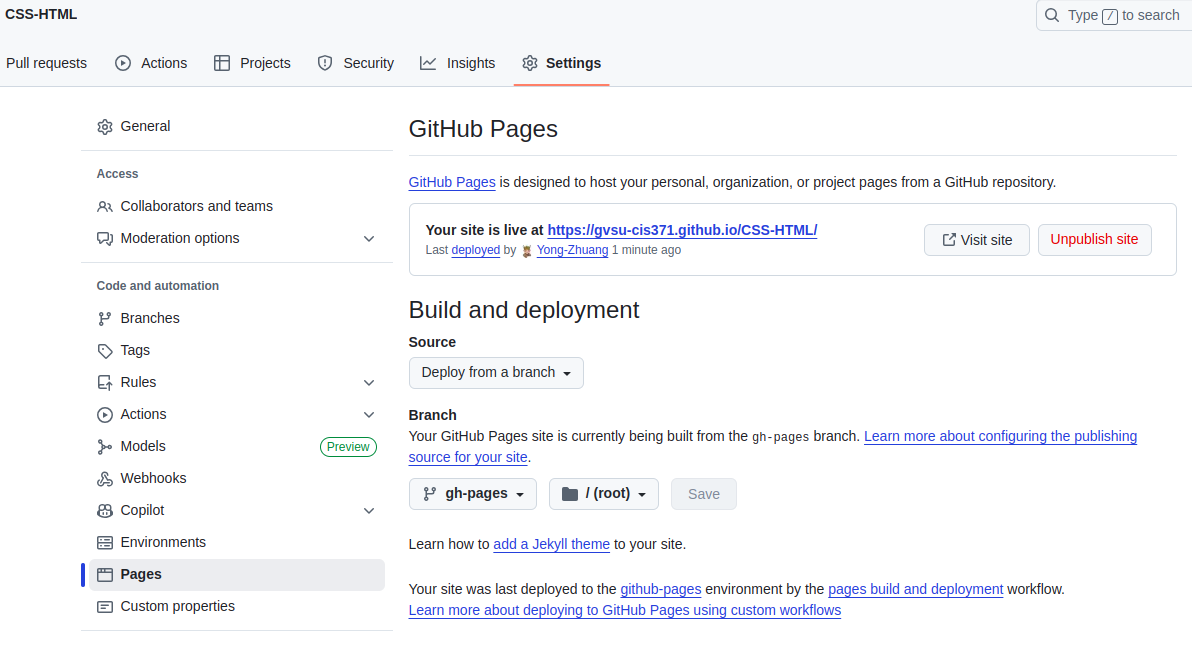
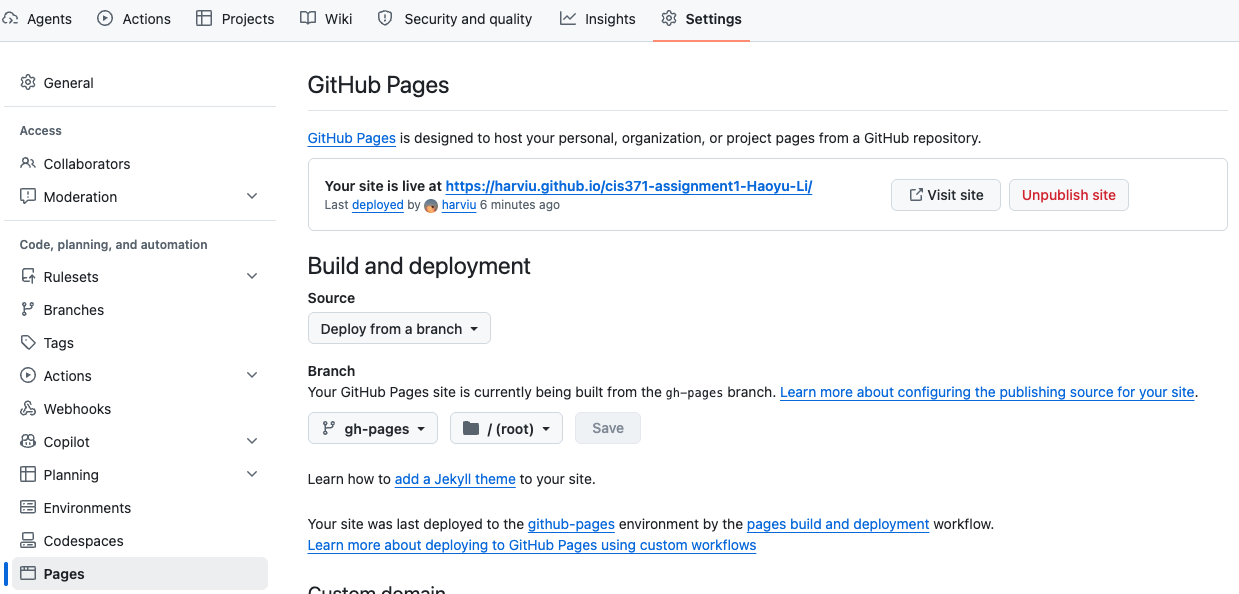
Revise assignment 1

diff --git a/assignments/css-html.md b/assignments/css-html.md
@@ -14,10 +14,10 @@ Build a static online store showcasing your proficiency in fundamental CSS and H
 - **IDE Setup:** Use [VS Code](https://code.visualstudio.com/) for editing and managing your code.
 - **Development Environment:**
 
-  1. **NodeJS Environment Setup**: Choose one of the following options to set up your NodeJS environment,
+  1. **Node.js Environment Setup:** Install Node.js 22.12 or later using one of the following options:
 
      - Docker Container: Create a Node.js development environment with Docker. For detailed instructions, please refer to the [class slides](../assets/pdf/Docker.pdf).
-     - Direct Install: Alternatively, you can install NodeJS directly from the [NodeJS official website](https://nodejs.org).
+     - Direct Install: Alternatively, you can install Node.js directly from the [Node.js official website](https://nodejs.org).
 
      In the context of this document, the term `terminal` refers to:
 
@@ -25,17 +25,17 @@ Build a static online store showcasing your proficiency in fundamental CSS and H
      - Terminal: On macOS systems.
      - Shell or Bash: Inside a Docker container, depending on the base image of the container.
 
-     Verify the installation by execute the command in `terminal`:
+     Verify the installation by running the following commands in your `terminal`:
 
      ```bash
-     node -v    # v14 or newer
-     npm -v     # v8 or newer
+     node -v    # v22.12 or later
+     npm -v     # npm is included with Node.js
      ```
 
   2. **GitHub Setup:**
 
      1. Create a [GitHub account](https://github.com) if you don't have one.
-     2. Ensure you can access your GitHub account using an SSH Key. If you haven't set this up, follow the steps below or check this [tutorial](https://youtu.be/a-zX_qc2S-M).
+     2. Ensure you can access your GitHub account using an SSH key. If you haven't set this up, follow the steps below or check this [tutorial](https://youtu.be/a-zX_qc2S-M).
 
         - Open a `terminal`. If you haven't yet configured an SSH key for GitHub on your machine, generate a new one with the following command:
 
@@ -43,29 +43,35 @@ Build a static online store showcasing your proficiency in fundamental CSS and H
           ssh-keygen
           ```
 
-        - Navigate to your GitHub account settings(web). Click on `SSH and GPG keys` and then `New SSH key`. Paste the public key that was generated in the first step and click `Add SSH key`.
-        
-        ![github-sshkey](../assets/img/github-sshkey.png)
+        - Navigate to your GitHub account settings on the website. Click on `SSH and GPG keys` and then `New SSH key`. Paste the public key that was generated in the first step and click `Add SSH key`.
 
-        - Set up your GitHub username and email in a `terminal``. You can do this with the following commands:
+          ![github-sshkey](../assets/img/github-sshkey.png)
+
+        - Set up your GitHub username and email in a `terminal`. You can do this with the following commands:
 
           ```bash
-           git config --global user.name "Your Name"
-           git config --global user.email "your-email@example.com"
-
+          git config --global user.name "Your Name"
+          git config --global user.email "your-email@example.com"
           ```
 
-  3. Accept your instructor's [GitHub classroom invitation](https://classroom.github.com/a/OwHBFWk8) to set up your project repository.
+  3. Set up your project repository.
 
-     1. **Select Your Name:** ![select-name](../assets/img/github-classroom-selectname.png)
-     2. **Initialize Your Assignment Repository:** ![init-repo](../assets/img/github-classroom-initrepo.png)
-     3. **Clone the Repository:** ![clone](../assets/img/github-classroom-sshclone.png): You're now ready to clone the repository. In your `terminal`, use the following command with your SSH repository link to download the repository to your local machine:
+     1. **Use the Assignment Template:** Open the [Assignment 1 template](https://github.com/harviu/cis371-assignment1). Click **Use this template**, then select **Create a new repository**.
+     2. **Name Your Repository:** Name your repository `cis371-assignment1-FirstName-LastName`, replacing `FirstName` and `LastName` with your own name.
+
+        ![Repository naming settings](../assets/img/github-name-repository.png)
+
+     3. **Clone the Repository:**
+
+        ![Clone a repository using SSH](../assets/img/github-sshclone.png)
+
+        In your `terminal`, use the following command with your SSH repository link to clone the repository to your local machine:
 
         ```bash
         git clone [YOUR_SSH_REPO_LINK]
         ```
 
-     4. **Install Required Packages:** Execute the following command to install the necessary packages for your project:
+     4. **Install Required Packages:** Run the following commands to install the necessary packages for your project:
 
         ```bash
         cd [YOUR_REPO]
@@ -78,46 +84,46 @@ Build a static online store showcasing your proficiency in fundamental CSS and H
      npm run dev
      ```
 
-     Then you can access your project at `localhost:5173` in browser.
+     Then open `http://localhost:5173` in your browser.
 
 ## Instructions
 
-For your project, you will work with index.html and main.css. Write CSS code in main.css to complete the following tasks:
+For your project, you will work with `index.html` and `main.css`. Write CSS code in `main.css` to complete the following tasks:
 
-- **Layout**: Implement a 3-row layout using CSS Grid: Header, Main, and Footer.
+- **Layout:** Implement a 3-row layout using CSS Grid: Header, Main, and Footer.
 
   - Ensure there is no horizontal scroll.
 
 - **Header:** Position the store's name at the top left and navigation links at the top right.
-- **Footer:** Contains copyrights.
+- **Footer:** Display a copyright notice.
 
 - **Main:** Display all store items.
 
   - Maintain equal space between all items, ensuring that both the ends (left and right) and the space between item blocks are evenly spaced.
-  - Each row should display exactly 4 items.
+  - Each row should display 4 items.
   - Store items should automatically wrap to the next row after every 4 items.
   - The height of the main container should be dynamic, adjusting automatically based on the number of items displayed, with rows expanding as more items are added. Ensure there is no horizontal or vertical scrolling within the main container.
 
-- **store-item**: Style the item information.
+- **store-item:** Style the item information.
 
-  - All store-items should have the same height and width.
-  - Ensure that the Rating, Price, and Stock information are displayed in the same row.
+  - All store items should have the same height and width.
+  - Display the rating, price, and stock information on the same row within each store item.
 
-- **Overall**
+- **Overall:**
 
   - The layout should fill the browser’s width without causing horizontal scrolling.
 
   ![Layout](../assets/img/css-html.png)
 
-## Grading Rubrics
+## Grading Rubric
 
 | Grading Item | Points |
 | --- | --: |
 | **GitHub Setup with SSH Key, Clone, Commit, Push, & Deploy to GitHub Pages** | 15 |
 | **Layout** | 10 |
-| **Header:** | 10 |
-| **Footer:** | 10 |
-| **Main:** | 25 |
+| **Header** | 10 |
+| **Footer** | 10 |
+| **Main** | 25 |
 | **store-item** | 20 |
 | **Visual Design and Aesthetics** | 10 |
 
@@ -126,13 +132,16 @@ For your project, you will work with index.html and main.css. Write CSS code in 
 - Deploy your web application using the following commands in your `terminal`:
 
   ```bash
-   npm run build
-   npm run deploy
+  npm run build
+  npm run deploy
   ```
 
-- Github Page Setup
+- **GitHub Pages Setup:**
 
-  - Set up your GitHub repository for GitHub Pages deployment. Follow the steps shown in the image below: ![Layout](../assets/img/github-page.png).
-  - Your web application will be accessible at the URL: gvsu-cis371.github.io/YOUR-REPO
+  - GitHub Pages setup is handled automatically by the deployment process. To view the configuration, open your repository’s **Settings → Pages**.
 
-- Submit the URL of your GitHub Page in Blackboard.
+    ![GitHub Pages settings](../assets/img/github-page.png)
+
+  - Your web application will be accessible at the URL: `https://[GITHUB_ID].github.io/[YOUR_REPO]/`
+
+- Submit your GitHub Pages URL in Blackboard.
